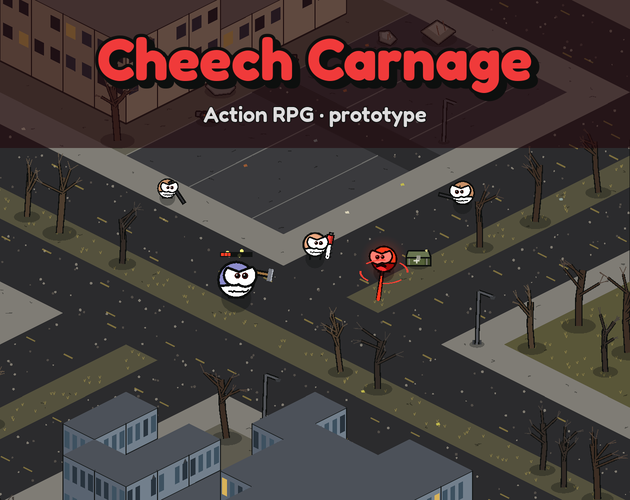
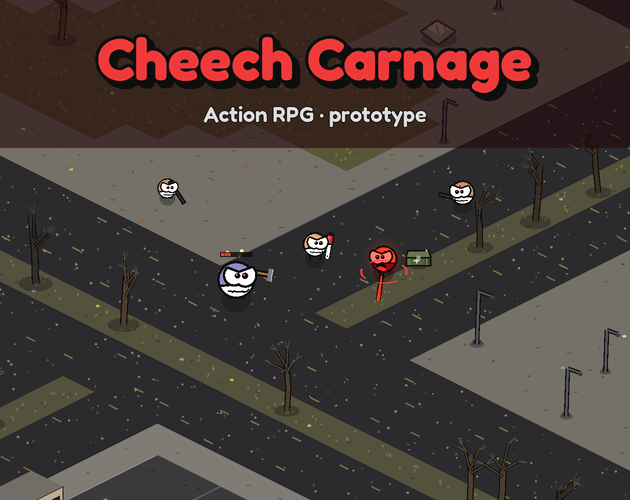
Devlog: più spazio e più nemici in Ciccio Massacro; copertine aggiornate
Claude-Session: https://claude.ai/code/session_01CG3rgDPWVfXFqwtqqkDrXo

diff --git a/public/assets/devlog.js b/public/assets/devlog.js
@@ -14,6 +14,28 @@ export const PROGETTI = {
 
 export const DEVLOG = [
   {
+    id: "2026-11-08-ciccio-arene-grandi",
+    data: "2026-11-08",
+    progetto: "ciccio",
+    titolo: { it: "Più spazio e più nemici", en: "More room, more enemies" },
+    punti: {
+      it: [
+        "La città si allarga: viali, strade e isolati più larghi, piazze più frequenti, vicoli da due rombi e niente più passaggi da uno. Gli ostacoli non sono più ammassati: fra uno e l'altro si passa sempre.",
+        "Edifici e metropolitana più spaziosi: stanze più grandi, corridoi e porte larghi tre rombi, pilastri più distanziati, banchine e passerelle più larghe e arene dei boss più grandi. Crolli e macerie non chiudono più le porte.",
+        "Più nemici deboli da falciare: in strada ce ne sono di più a ogni livello, le orde arrivano fino a 90 zombie con 50 in campo insieme (su telefoni e tablet un po' meno) e le stanze degli edifici sono più affollate.",
+        "Le piazze delle sirene sono più ampie, per le sfide di sopravvivenza in mezzo all'orda.",
+        "Le partite salvate si caricano come prima; la mappa scoperta riparte da zero, perché la città è cambiata.",
+      ],
+      en: [
+        "The city opens up: wider avenues, streets and blocks, more squares, two-tile alleys and no more one-tile passages. Obstacles are no longer piled up: there is always a way between them.",
+        "Roomier buildings and subway: bigger rooms, corridors and doors three tiles wide, pillars further apart, wider platforms and walkways and bigger boss arenas. Collapses and rubble no longer block the doors.",
+        "More weak enemies to mow down: more of them on the streets at every level, hordes of up to 90 zombies with 50 on the field at once (a little fewer on phones and tablets) and more crowded rooms inside buildings.",
+        "Siren squares are larger, for survival challenges in the middle of the horde.",
+        "Saved games load as before; the explored map starts over, because the city has changed.",
+      ],
+    },
+  },
+  {
     id: "2026-11-08-ciccio-frenesia-buff",
     data: "2026-11-08",
     progetto: "ciccio",
